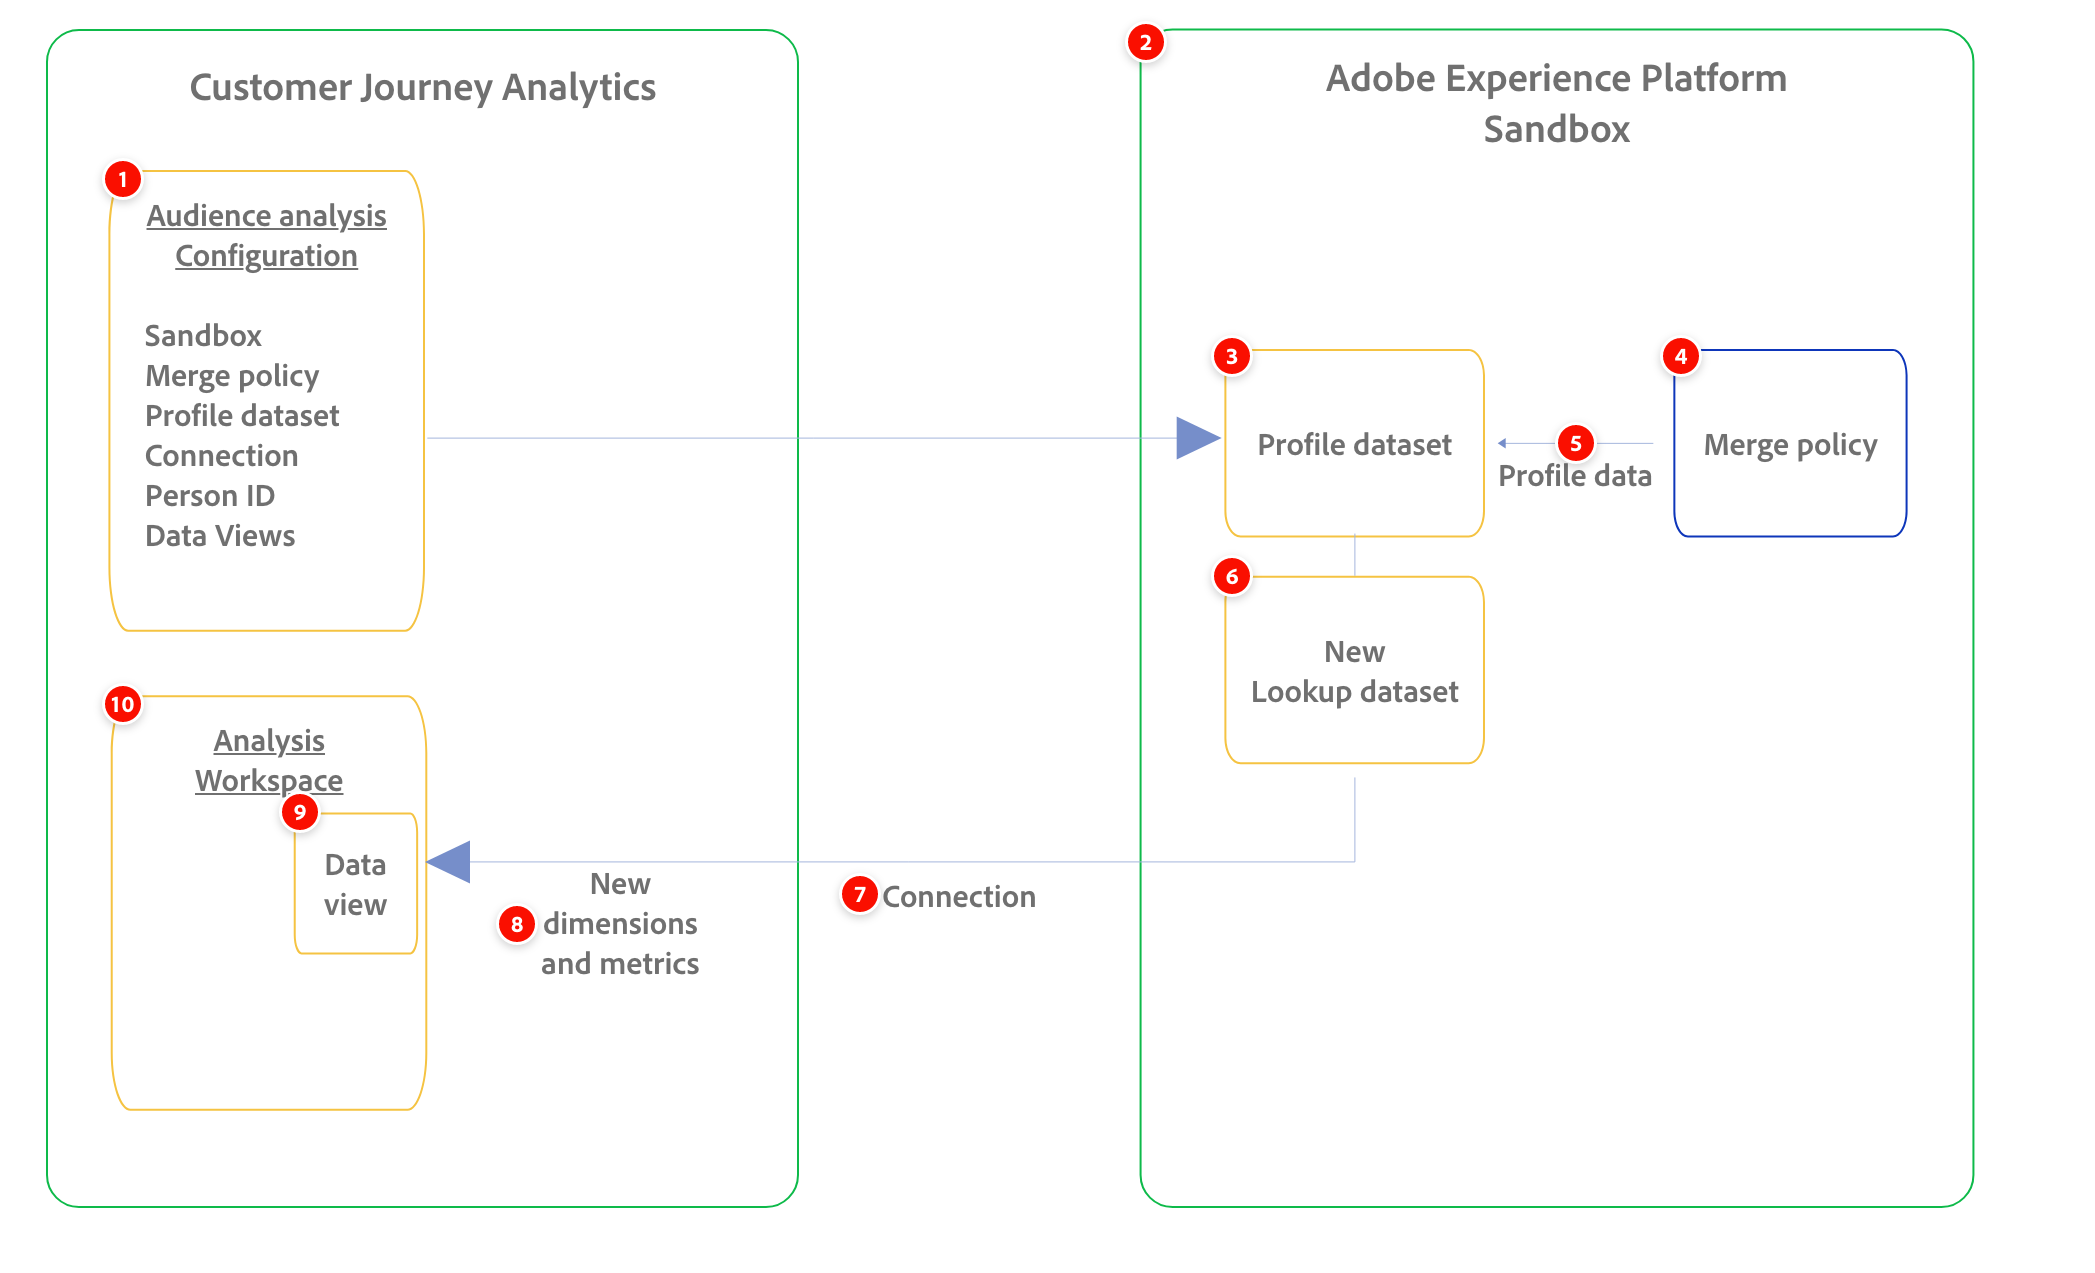
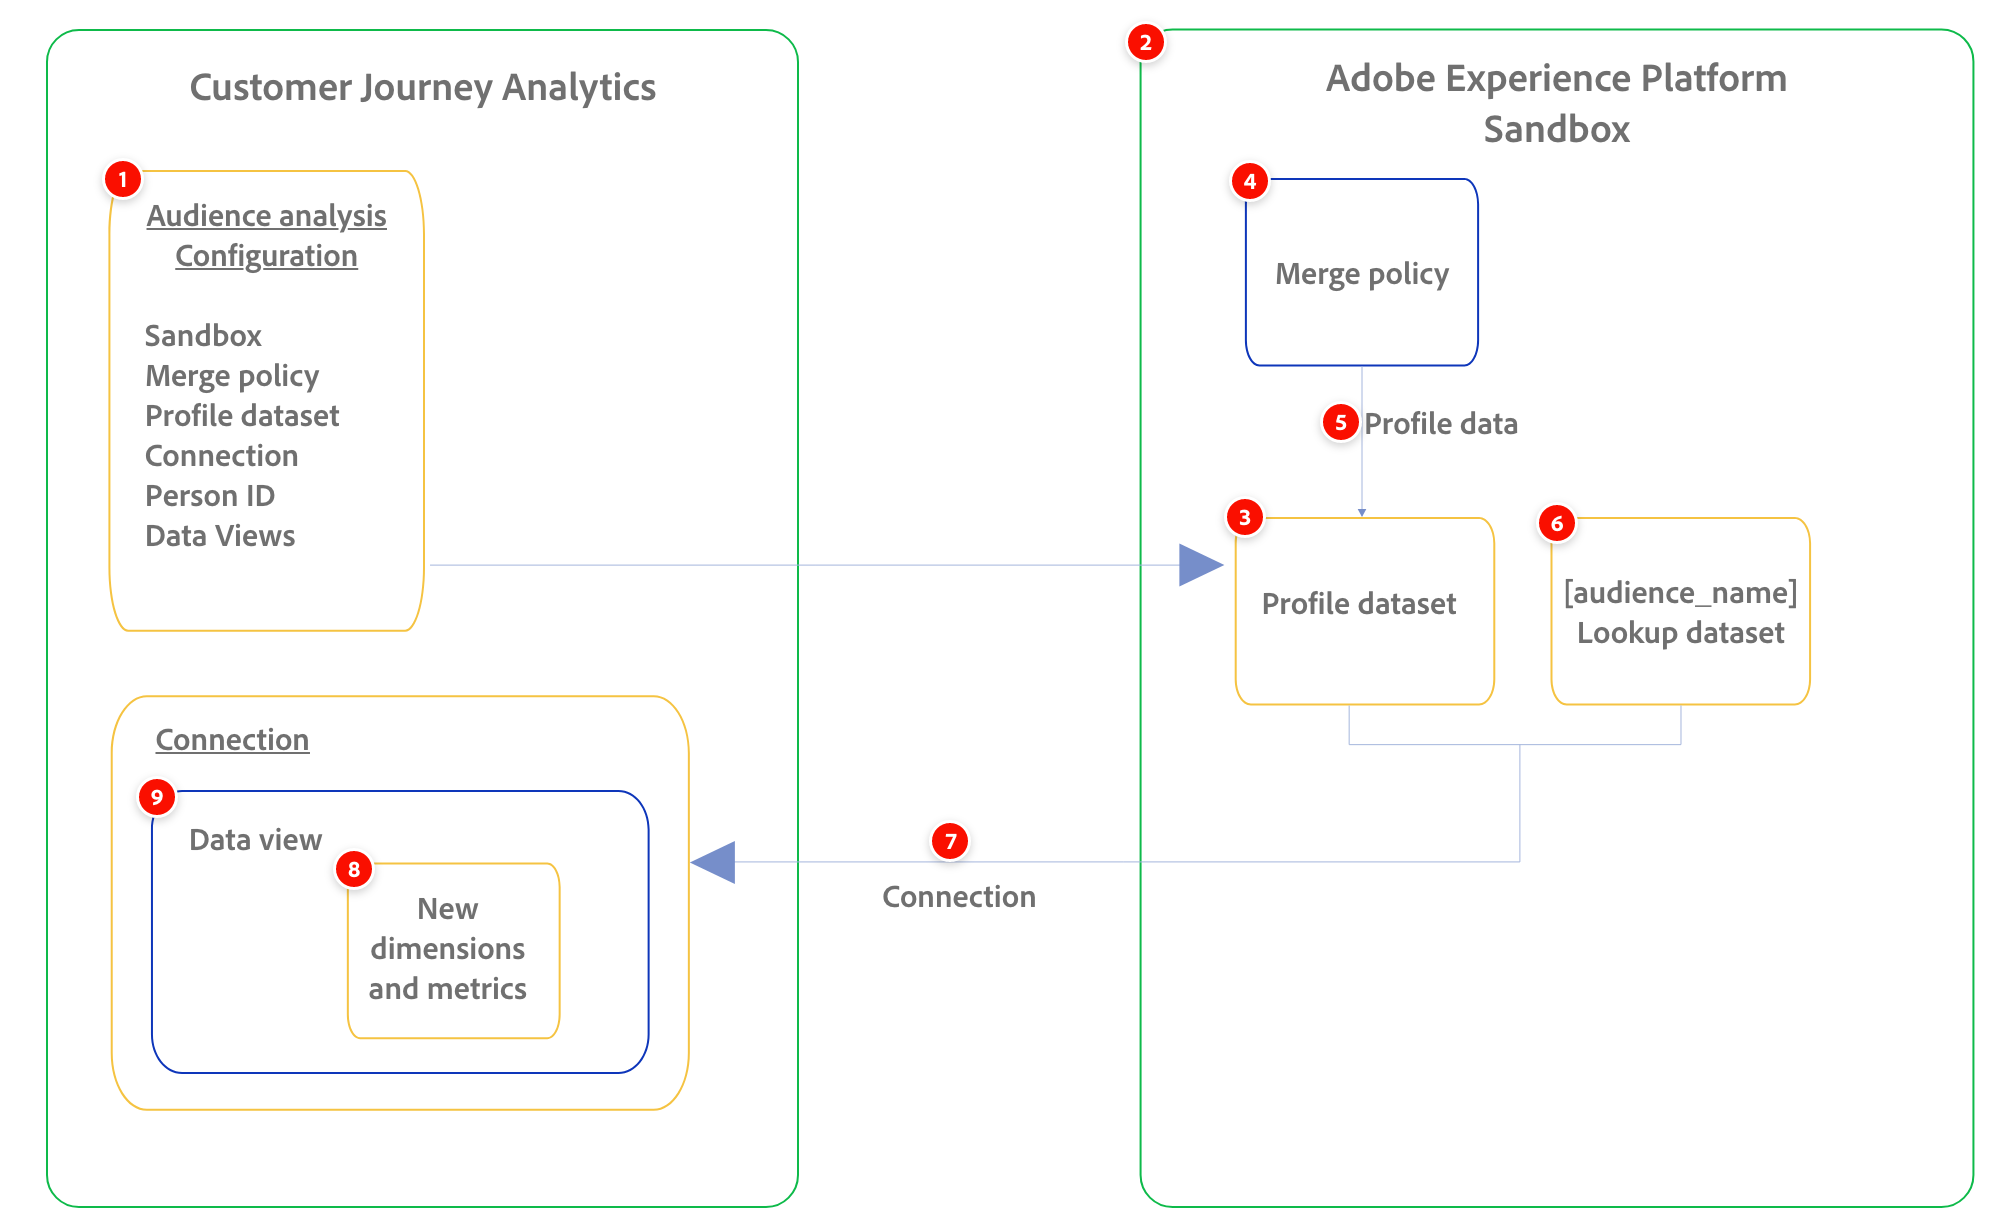
updates to AuA

diff --git a/help/connections/audience-analysis/audience-analysis-overview.md b/help/connections/audience-analysis/audience-analysis-overview.md
@@ -35,11 +35,14 @@ The following diagram and associated table show a high-level representation of h
 | 7 | Connection | The connection where you want to add the profile dataset that you select. |
 | 8 | New audience dimensions | New audience dimensions<!--and metrics?--> that represent the Experience Platform audiences that are included in the profile dataset you selected, and are available for reporting in Analysis Workspace. These dimensions are automatically created. |
 | 9 | Data views | The data views you select that are associated with your connection. These are the data views that you want to use when analyzing Experience Platform audience data within Analysis Workspace. These data views are automatically configured with Experience Platform audience data for reporting. |
-| 10 | Analysis Workspace | The area within Customer Journey Analytics where you create reports that include the Experience Platform audiences that are ingested. |
 
 ## Configure audience analysis
 
 When you configure audience analysis, you select the sandbox and merge policy associated with the Experience Platform audiences that you want to analyze. Customer Journey Analytics creates a new lookup dataset, then automatically adds the lookup dataset and the profile dataset to the connection you choose. 
+
+>[!NOTE]
+>
+>Audiences are available in Customer Journey Analytics data views on the day after you create the audience analysis configuration.
 
 For more information, see [Configure audience analysis](/help/connections/audience-analysis/audience-analysis-configure.md).
 

diff --git a/help/connections/audience-analysis/audience-analysis-configure.md b/help/connections/audience-analysis/audience-analysis-configure.md
@@ -99,7 +99,10 @@ To create an audience analysis configuration:
 
 1. Select **[!UICONTROL Create]** to create the configuration.
 
-   Because the profile dataset is updated once per day, audiences are available in Customer Journey Analytics data views on the day after you create the audience analysis configuration.
+   >[!IMPORTANT]
+   >
+   >Because the profile dataset is updated once per day, audiences are available in Customer Journey Analytics data views on the day after you create the audience analysis configuration.
+
 
 1. After 24 hours, [view audience dimensions in the data view](#view-audience-dimensions-in-the-data-view) to verify that the audience dimensions are available in the data views that you selected. 
  
